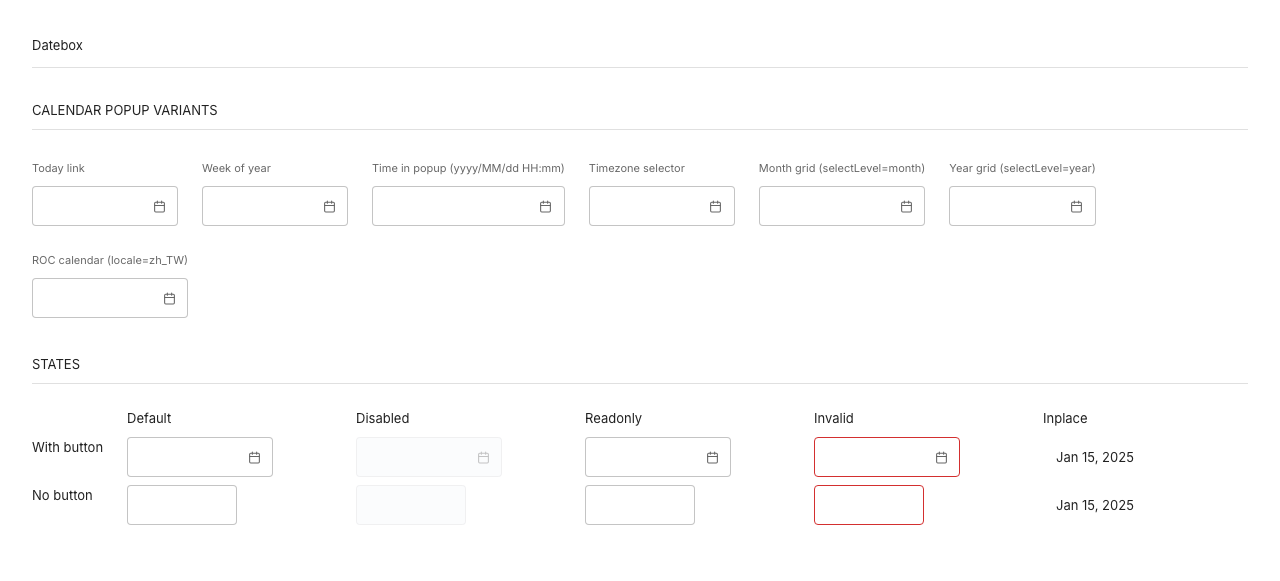
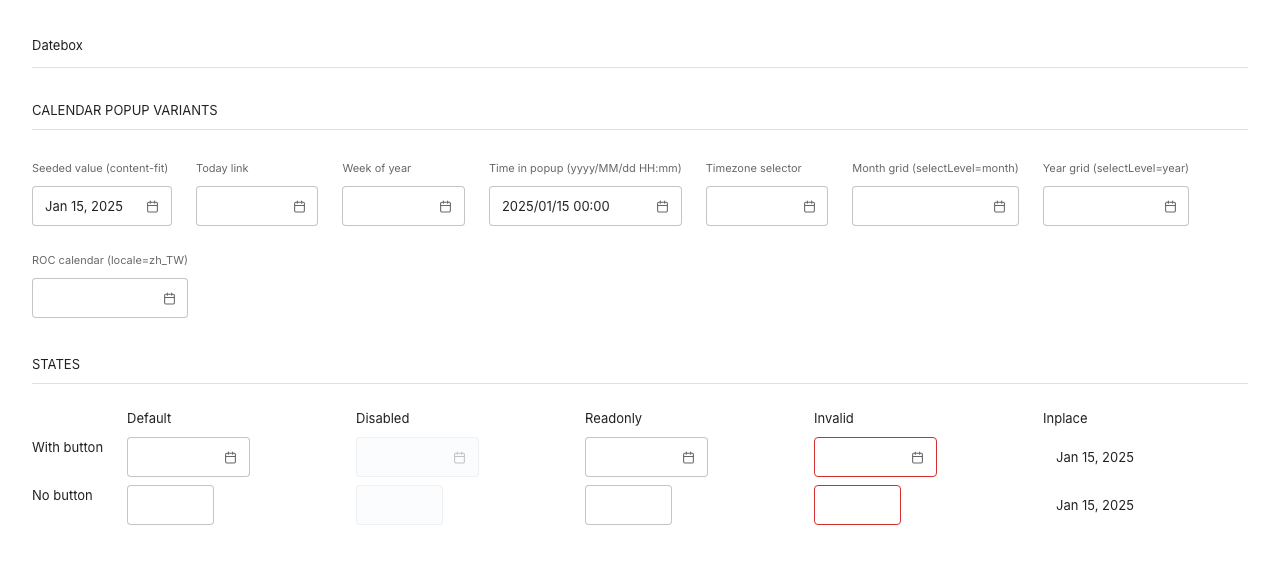
theme(datebox,timebox): content-fit inputs to hug date/time content
Re-examination of the daterangebox fix (c0c243f) found its premise wrong:
datebox is NOT a content-hugging "reference baseline". Its size-less <input>
with `flex:1;min-width:0` collapsed to a fixed ~108px that ignored content
(empty = short = long-format, all 108px) and CLIPPED long formats — measured
`yyyy/MM/dd HH:mm` "2025/01/15 00:00" needs 132px, was truncated at 108px.
timebox shares the identical collapse.

Fix: `.z-{datebox,timebox}-input` now hugs via `field-sizing: content` +
`min-width` floor (6.5em date / 5em time) + `flex: 1 1 auto`. Empirically
`flex:1 1 auto` beats daterangebox's `0 1 auto` here — it hugs in an auto
context yet STILL fills an hflex/width-forced root, so form layouts are
unaffected (verified: hflex=1 datebox fills 362px in a 400px parent). Short
date 108->102px, empty->85px floor, long format 108->132px (no clip). Degrades
to the prior look where `field-sizing` is unsupported. Scoped to the two
fixed-format date/time fields; free-text combobox/bandbox (per-keystroke
jitter) and numeric spinner left unchanged.

Test-first per doc/skill-feedback-loop.md (proven RED->GREEN via stash-revert):
- doc/skill-gaps.md: logged the gap + corrected the daterangebox premise
- doc/contracts/{datebox,timebox}.md: field-sizing (dw1/tw1), flex+min-width
  (dw2/tw2), outcome M1 (width tracks content / no clip)
- combo-trio.md skill: ZK-structural fact (inputs ship size-less -> theme must
  set a width policy)
[…]

diff --git a/src/test/playwright/screenshot.spec.ts b/src/test/playwright/screenshot.spec.ts
@@ -499,6 +499,40 @@ test.describe('datebox', () => {
       await padShot(page, page.locator('.z-datebox').first(), `${DIR}-${name}.png`);
     });
   }
+
+  // gap 2026-07-20 (Contract dw1/dw2/M1): the input ships size-less (ZK
+  // ComboWidget.redraw_ writes only class/aria/autocomplete; InputWidget._cols=0).
+  // The old `flex:1;min-width:0` collapsed it to a fixed ~108px that ignored
+  // content — a short date, an empty field, and a long-format date all rendered
+  // the SAME width, and the long format "2025/01/15 00:00" was CLIPPED
+  // (scrollWidth 132 > clientWidth 108). `field-sizing: content` (datebox.css) must
+  // make the input hug its date: short hugs, long grows to fit (no clip), so a
+  // longer value renders wider than a shorter one. Measures the seeded short-format
+  // and seeded long-format dateboxes in pv/datebox-content.zul.
+  // RED before the fix (fixed width, long clipped, long == short); GREEN after.
+  test('input hugs its date content (field-sizing, no clip, tracks length)', async ({ page }) => {
+    const info = await page.evaluate(() => {
+      const inputs = [...document.querySelectorAll('.z-datebox-input')] as HTMLInputElement[];
+      const seeded = inputs.filter(i => i.value && (i as HTMLElement).offsetParent !== null);
+      const measure = (i?: HTMLInputElement) => i && ({
+        w: Math.round(i.getBoundingClientRect().width),
+        clipped: i.scrollWidth > i.clientWidth + 1,
+        fieldSizing: getComputedStyle(i).getPropertyValue('field-sizing'),
+        value: i.value,
+      });
+      // long-format value contains "/" (yyyy/MM/dd HH:mm); the short default does not.
+      return {
+        short: measure(seeded.find(i => !i.value.includes('/'))),
+        long: measure(seeded.find(i => i.value.includes('/'))),
+      };
+    });
+    expect(info.short, 'seeded short-format datebox must be present').toBeTruthy();
+    expect(info.long, 'seeded long-format datebox must be present').toBeTruthy();
+    expect(info.long!.fieldSizing, 'field-sizing: content must be applied').toBe('content');
+    expect(info.long!.clipped, `long-format date "${info.long!.value}" must not be clipped`).toBe(false);
+    expect(info.long!.w, `input width must track content: long ${info.long!.w}px > short ${info.short!.w}px`)
+      .toBeGreaterThan(info.short!.w);
+  });
 });
 
 // -------------------------------------------------------
@@ -585,6 +619,28 @@ test.describe('timebox', () => {
       await padShot(page, page.locator('.z-timebox').first(), `${DIR}-${name}.png`);
     });
   }
+
+  // gap 2026-07-20 (Contract tw1/tw2/M1): same size-less input as datebox, with
+  // the same fixed-width collapse under the old `flex:1;min-width:0`. timebox's
+  // default time fits without clipping, so the clean RED->GREEN proof is the
+  // applied `field-sizing: content` (was the UA default `fixed`) that makes the
+  // input hug its time; the no-clip check guards a future long time format.
+  // Measures the seeded plain timebox in pv/timebox-content.zul.
+  test('input hugs its time content (field-sizing, no clip)', async ({ page }) => {
+    const info = await page.evaluate(() => {
+      const seeded = ([...document.querySelectorAll('.z-timebox-input')] as HTMLInputElement[])
+        .find(i => i.value && (i as HTMLElement).offsetParent !== null);
+      return seeded && ({
+        w: Math.round(seeded.getBoundingClientRect().width),
+        clipped: seeded.scrollWidth > seeded.clientWidth + 1,
+        fieldSizing: getComputedStyle(seeded).getPropertyValue('field-sizing'),
+        value: seeded.value,
+      });
+    });
+    expect(info, 'seeded timebox must be present').toBeTruthy();
+    expect(info!.fieldSizing, 'field-sizing: content must be applied').toBe('content');
+    expect(info!.clipped, `time "${info!.value}" must not be clipped`).toBe(false);
+  });
 });
 
 // -------------------------------------------------------

diff --git a/src/main/resources/web/js/zul/inp/css/datebox.css b/src/main/resources/web/js/zul/inp/css/datebox.css
@@ -39,9 +39,21 @@
     box-shadow: inset 0 0 0 1px var(--zk-color-primary);
 }
 
+/* Content-hug (contract dw1/dw2/M1): ZK emits the <input> with no size/width
+   (InputWidget._cols=0 → ComboWidget.redraw_ writes only class/aria/autocomplete;
+   see components/combo-trio.md). The old `flex:1;min-width:0` collapsed the input to
+   a fixed ~108px that ignored its content — short/empty/long all rendered the same
+   width and long formats like "2025/01/15 00:00" were CLIPPED. `field-sizing: content`
+   makes the input hug its date text (short dates hug; long formats grow to fit — no
+   clipping). `flex: 1 1 auto` (basis = content) still lets an hflex / width-forced
+   field grow to fill its container, so form layouts keep working. The `min-width`
+   floor keeps an empty field a usable click target. Left-aligned (no text-align), so
+   hugging simply trims trailing dead space. Browsers without `field-sizing` fall back
+   to the prior look — degradation, not breakage. */
 .z-datebox-input {
-    flex: 1;
-    min-width: 0;
+    flex: 1 1 auto;
+    field-sizing: content;
+    min-width: 6.5em;
     border: none;
     background: transparent;
     padding: 0 var(--zk-spacing-3);

diff --git a/src/main/resources/web/js/zul/inp/css/timebox.css b/src/main/resources/web/js/zul/inp/css/timebox.css
@@ -46,9 +46,15 @@
     box-shadow: inset 0 0 0 1px var(--zk-color-primary);
 }
 
+/* Content-hug (contract tw1/tw2/M1): same size-less input as datebox (see
+   components/combo-trio.md). `field-sizing: content` makes the input hug its time
+   text; `flex: 1 1 auto` (basis = content) still lets an hflex / width-forced field
+   fill its container. The `min-width` floor keeps an empty field a usable target.
+   Left-aligned; degrades to the prior look where `field-sizing` is unsupported. */
 .z-timebox-input {
-    flex: 1;
-    min-width: 0;
+    flex: 1 1 auto;
+    field-sizing: content;
+    min-width: 5em;
     border: none;
     background: transparent;
     padding: 0 var(--zk-spacing-3);

diff --git a/doc/skill-gaps.md b/doc/skill-gaps.md
@@ -301,3 +301,4 @@ Append-only record of ZK features that the harness missed and how we structurall
 | 2026-07-15 | coachmark | The pop-up card (`.z-coachmark-content`) was filled with `--zk-color-primary` (blue) + `--zk-color-on-primary` text. Any nested filled widget inherits the *global* filled style (itself primary-on-primary) and vanishes into the card, forcing the theme to hand-invert each control type (`.z-button`, `.z-combobutton` today) — a combinatorial burden that grows with every new slotted control. **Resolved by switching the card to a neutral MD3 rich-tooltip surface** (`--zk-color-surface-container-low`, `on-surface` text) so nested widgets render with their STANDARD styling and no inversion is needed. | The card's primary fill was an approved DESIGN choice, so no assertion questioned it; the "child controls on a colored card must be inverted" skill rule *documented* the workaround as the norm rather than flagging the root cause; MD3 has no "coachmark" so no reference mapped the composable-container pattern to its rich-tooltip guidance (neutral surface + standard text buttons). | contract + skill + impl + test | CSS `js/zkmax/nav/css/coachmark.css` (card bg/text + pointer border-color → neutral surface/on-surface; **removed** the `.z-coachmark-content .z-button` and `.z-coachmark-content .z-combobutton …` inversion blocks; close icon → `on-surface-variant`); Contract `doc/contracts/coachmark.md` (c1/c2/c5/c10 retargeted, inverse rows c17–c20 + outcome M8 removed, M1/M6 recomputed; mockup `coachmark.html` regenerated + re-approval gate); Skill `.claude/skills/zk-component-rules/components/coachmark.md` (the inversion invariant becomes *conditional* — default surface is neutral, inversion only IF a future variant re-colors the card); Test `screenshot.spec.ts › coachmark › card is a neutral surface and nested button keeps the standard fill`. | |
 | 2026-07-15 | coachmark (close button) | Designer review of the top-right close `×`: it renders as a bare 16×16 glyph (no hit target, no hover state layer, no focus ring) sitting at an **asymmetric** corner inset — 4px inside the content top but 8px inside the right — so it reads as unfinished and "positioned oddly". Root cause of the asymmetry: the close is `position:absolute` against the `.z-coachmark` **root**, and ZK injects **20px** padding on the pointer side of the root (`Coachmark.ts` `_fixPadding`: `ph = 10 + borderHeight/2 = 10 + 10`, pointer border hardcoded 10px). The theme's pointer-side compensation bump was **`+16px` — 4px short of 20px**, so on a pointer-up/right card the close lands 4px (not 8px) inside the content edge. Separately the close was never given the theme's icon-button affordance. | MD3 rich-tooltip guidance prescribes *action buttons*, not a corner `×`, so no reference ever specified the close affordance or its inset; the contract asserted the close's existence/corner-pinning (M3) and colour (c10) but never its **size**, **shape (circular)**, **hover state layer**, **focus ring**, or **symmetric inset**; and the `+16px` bump was copied from ZK's default without checking it against the 20px the JS actually injects. A rest-vs-settled geometry probe can't flag "feels cramped" — only a designer's eye + an explicit symmetric-inset assertion catches it. | skill + contract + impl + test | CSS `js/zkmax/nav/css/coachmark.css` (`.z-coachmark-close` → `--zk-control-height-xs` circular target, flex-centered, `surface-container` hover state layer, `--zk-focus-ring` on `:focus-visible`; pointer bumps `+16px`→`calc(spacing-2 + spacing-5)` = 20px; content `padding-right` reserves 44px for the 28px circle); Skill `.claude/skills/zk-component-rules/components/coachmark.md` (record: root gets 20px JS-injected padding on the pointer side → close pointer-side offset compensation MUST be 20px, and the close should reuse the theme icon-button affordance); Contract `doc/contracts/coachmark.{md,html}` (new close expected values + outcome assertion for circular affordance + symmetric 8px content-corner inset); Test `screenshot.spec.ts › coachmark › close button is a circular icon-button target with symmetric corner inset`. | Fixed & verified red→green. Two guards added: `close button is a circular icon-button target with symmetric corner inset` (failed on the old build — width 16<24, and 4px/8px asymmetric inset — passes now: 28px circle, radius 9999px, 8px/8px inset) and `close button shows a hover state layer` (old build had no `::before` → rest opacity 1≠0; now 0→0.08 on hover). Live re-measure: close 28×28, `border-radius:9999px`, `top/right` insets 8px/8px, card `padding` `16px 44px 16px 16px`; hover paints the on-surface `::before` state layer, `:focus-visible` shows the primary ring. Sibling sweep: combobutton + tour-step coachmarks on the page all render pointer-up with the same symmetric 8px/8px inset; pointer-down/left inject padding away from the top-right corner (no bump needed) and pointer-right reuses the same +20px, so all four directions land symmetric by construction (`_fixPadding` injects a uniform `pw=ph=20px`). Full chromium suite 118/118 green; coachmark group stable 9/9 over `--repeat-each=3`. Mockup `coachmark.html` regenerated to match; `contract-approved` flipped to false pending re-approval of the close-affordance change. |
 | 2026-07-20 | daterangebox | The input shows large symmetric left/right whitespace around the date and the whole field is ~2× datebox width (measured: root 398.6px, each input 172px, value "Jan 10, 2025" ≈ 78px centered → ~35px gutter/side). Root cause is **NOT padding** (both daterangebox & datebox use `padding: 0 12px` = `--zk-spacing-3`): `.z-daterangebox-input` has `text-align: center` + `flex: 1` and the two `<input>`s carry no `size`/`width` (ZK `Daterangebox.ts` `redraw()` writes only class/aria/placeholder/autocomplete), so each falls back to the UA-default ~20ch (~172px) intrinsic width and the short date sits centered with wide gutters. datebox is single + left-aligned, so its gutter is one-sided and far less visible. | The contract asserted the input's centered text (Design prose) and font-size (c5) but **never constrained input width or the gutter**; MD3/MUI has no two-input date-range analog (MUI `SingleInputDateRangeField` is one left-aligned `OutlinedInput` at 14px padding), so no width target was ever measured; and daterangebox had **no Playwright `describe` block at all** — only a render-smoke 200-check — so nothing could observe the width. | skill + contract + impl + test | CSS `js/zkmax/db/css/daterangebox.css` (`.z-daterangebox-input`: `flex:1`→`flex:0 1 auto`, add `field-sizing:content`, `min-width:0`→date-fit floor so inputs hug their content instead of the UA ~20ch default); Skill `.claude/skills/zk-component-rules/components/daterangebox.md` (record: the two inputs ship with no `size`/`width`, so a theme MUST bound their width or each renders ~20ch and, centered, shows large symmetric gutters); Contract `doc/contracts/daterangebox.md` (new outcome M-row: a seeded `.z-daterangebox-input` bbox width is content-fitted, <130px; new Expected-value row for `field-sizing`); Test `screenshot.spec.ts › daterangebox › input hugs its date content (not the UA ~20ch default)`. | Fixed & verified red→green on /daterangebox.zul. The guard failed on the old build (seeded begin input **172px** > 130px) and passes now (**102.4px**; `field-sizing: content`, `min-width` floor `84.5px` = 6.5em). Root width **398.6px→258.9px** (−35%); empty field 398px→223.6px. Live screenshot confirms seeded ranges read compactly with no clipping and the `showTime` variant auto-widens for the time text. Full date family green (7/7: datebox timezone/open-state/gallery/hover/focus + daterangebox). **Sibling sweep — no code change:** datebox/combobox/bandbox/timebox/spinner are single-input, and combobox/bandbox are free-text where content-hug would jitter per keystroke; datebox is the user's stated reference baseline, so the fix is intentionally scoped to daterangebox only. `field-sizing` degrades to the prior ~20ch look where unsupported (no regression). |
+| 2026-07-20 | datebox, timebox | DateBox does **NOT** hug its content either. `.z-datebox-input` uses `flex: 1; min-width: 0` (grow-to-fill) with **no** `field-sizing`/width/`min-width` floor, and ZK emits the input size-less (`InputWidget._cols=0` → `ComboWidget.redraw_` writes only class/aria/autocomplete). In practice `flex:1;min-width:0` collapsed the input to a **fixed ~108px** that ignored content — empty, short date and long-format date all rendered the same width — and **clipped** long formats (`yyyy/MM/dd HH:mm` "2025/01/15 00:00" → scrollWidth 132 > clientWidth 108, measured). TimeBox shares the identical collapse. **This corrects the 2026-07-20 daterangebox row's premise** that "datebox is the content-hugging reference baseline" — datebox never hugged (it uses a fixed collapse, not content-fit). The over-wide *symmetric gutters* were daterangebox-specific (two centered inputs at ~172px); datebox's own defect is the content-insensitive fixed width plus the long-format clipping (NOT a 172px over-width — a bare datebox shrink-wraps to ~146px root / ~108px input). | No datebox/timebox contract or DESIGN.md rule ever constrained or measured input width — both contracts just delegate to combobox c1–c8 metrics, none of which cover width. MUI's single date/text field has no content-hug analog (it fills its container / UA width, left-aligned), so no width target was ever derivable from the reference. And the defect was masked by left-alignment: one-sided trailing whitespace reads as "a normal-width field", so no screenshot review flagged it — the daterangebox fix even codified the wrong premise into its sibling-sweep note. | skill + spec (DESIGN.md) + contract + impl + test | CSS `js/zul/inp/css/datebox.css` + `js/zul/inp/css/timebox.css` (`.z-{datebox,timebox}-input`: `flex:1;min-width:0` → `flex:1 1 auto; field-sizing:content; min-width` date/time-fit floor — basis=content hugs in an auto context yet still fills an `hflex`/width-forced root, unlike daterangebox's `flex:0 1 auto`); Skill `.claude/skills/zk-component-rules/components/combo-trio.md` (family-level: all combo-trio inputs ship size-less → a theme MUST set an input-width policy); Spec `doc/spec/DESIGN.md §10` (theme policy — content-hug fixed-format date/time fields; keep free-text combobox/bandbox + numeric spinner at UA-default/fill to avoid per-keystroke jitter); Contract `doc/contracts/{datebox,timebox}.md` (new outcome M-row: seeded `.z-{comp}-input` bbox width content-fitted <130px/<120px; new Expected-value rows for `field-sizing` + `flex`/`min-width`); Preview `pv/{datebox,timebox}-content.zul` (add a seeded plain instance to measure); Test `screenshot.spec.ts › datebox › input hugs its date content` + `› timebox › input hugs its time content`. **Sibling sweep — no code change:** free-text combobox/bandbox (content-hug jitters per keystroke) + numeric spinner (variable length) intentionally excluded; daterangebox already done. | Fixed & verified red→green on /datebox.zul + /timebox.zul. Guards failed pre-fix (computed `field-sizing: fixed`; datebox long-format clipped, long == short width) and pass after (`field-sizing: content`; long not clipped, long > short). **Empirical re-measure corrected the premise:** a bare datebox was never 172px — the old `flex:1;min-width:0` collapsed it to a fixed ~146px root / ~108px input regardless of content and clipped `yyyy/MM/dd HH:mm` (scrollW 132 > clientW 108). After the fix: short 108→102px, empty 108→85px (6.5em floor), long 108→132px (no clip); an `hflex=1` datebox still fills its container (362px in a 400px parent), so form layouts are unaffected. Recipe uses `flex:1 1 auto` (not daterangebox's `0 1 auto`) precisely to preserve hflex fill. Full date family green (datebox/daterangebox/timebox). |

diff --git a/doc/contracts/datebox.md b/doc/contracts/datebox.md
@@ -13,6 +13,25 @@ zk-version: 10.2.1-jakarta
 ## Expected values
 Same input metrics as combobox c1–c8 (just selectors → `.z-datebox-*`). Calendar popup styled separately; cross-reference `calendar` contract.
 
+### Content-fit input width — hug the date, not a fixed collapse (gap 2026-07-20)
+The date `<input>` ships **size-less** (ZK `InputWidget._cols=0` → `ComboWidget.redraw_` writes only
+class/aria/autocomplete; see `components/combo-trio.md`). The former `flex: 1; min-width: 0`
+collapsed it to a **fixed ~108px** that ignored its content — an empty field, a short date and a
+long-format date all rendered the same width, and the long `yyyy/MM/dd HH:mm` value
+("2025/01/15 00:00") was **clipped** (scrollWidth 132 > clientWidth 108). Per `DESIGN.md §10`
+(input-width policy) the input MUST hug its content. No `text-align` is added — the field stays
+left-aligned.
+
+| id | selector | property | expected |
+|----|----------|----------|----------|
+| dw1 | `.z-datebox-input` | field-sizing | `content` — the input hugs its date text (short dates hug; long formats grow to fit, no clipping). Degrades to the prior look where unsupported (no regression) |
+| dw2 | `.z-datebox-input` | flex + min-width | `flex: 1 1 auto` (basis = content, so it hugs in an auto context yet still **grows to fill** an `hflex`/width-forced root — forms keep working) AND a `min-width` date floor (`~6.5em`) keeping an empty field a usable target. Differs deliberately from daterangebox's `flex: 0 1 auto`, whose two side-by-side inputs must NOT grow |
+
+**Outcome (M1):** with seeded values, `.z-datebox-input` **width tracks its content** — a longer value
+(long `yyyy/MM/dd HH:mm` format) renders **wider** than a shorter one (default format), and the
+long-format value is **not clipped** (`scrollWidth <= clientWidth`). Guarded by
+`screenshot.spec.ts › datebox › input hugs its date content (field-sizing, no clip, tracks length)`.
+
 ### Timezone `<select>` focus — Mechanism A (gap 2026-07-14)
 The in-popup timezone `<select>` (`.z-datebox-timezone > select`) is a native, intrinsically-sized
 control → it MUST use Mechanism A, not a 2px focus border (which would grow the box on both axes and

diff --git a/doc/spec/DESIGN.md b/doc/spec/DESIGN.md
@@ -201,6 +201,20 @@ The theme honors `@media (forced-colors: active)` (Windows High-Contrast Mode; a
 
 Rule: **table rows are ~52px** (16px padding all sides + 13px text + line-height). Inputs ~39px inner height. Buttons ~35px.
 
+### Input width: fixed-format date/time fields hug their content
+
+ZK ships every combo-trio input size-less (no `size`/`width`; see `zk-component-rules/components/combo-trio.md`), so the theme must choose a width policy. Marble's choice:
+
+| Field | Width behaviour |
+|-------|-----------------|
+| **datebox, timebox, daterangebox** (fixed-format date/time) | **hug content** — `field-sizing: content` + a `min-width` floor (`~6.5em` date, `~5em` time), so the field sizes to its value: short values hug, long formats (e.g. `yyyy/MM/dd HH:mm`) grow to fit instead of clipping. |
+| **combobox, bandbox** (free-text) | keep the default / container-fill width. Content-hug would resize the box on every keystroke while typing — jarring. |
+| **spinner, doublespinner** (numeric) | keep the default / container-fill width (numeric length is unbounded and typed). |
+
+datebox/timebox use `flex: 1 1 auto` (basis = content, so they hug in an auto context yet still **fill** an `hflex`/width-forced root — forms are unaffected); daterangebox uses `flex: 0 1 auto` because its two side-by-side inputs must not grow.
+
+This is a deliberate divergence from MUI, whose single `OutlinedInput` fills its container (or the UA default) with left-aligned text and no content-hug. MUI has no opinion on a *standalone* date field's width; Marble sizes it to its content so a bare date/time field reads as one compact field rather than a fixed box with dead space, and long formats are never clipped. See contracts `datebox.md` / `timebox.md` / `daterangebox.md` and `doc/skill-gaps.md` (2026-07-20).
+
 ### Table-header background: no fill
 
 Grid, Listbox, and Tree headers share **one rule**: **no background color**. Header cells inherit the body surface; visual hierarchy comes from three signals:

diff --git a/.claude/skills/zk-component-rules/components/combo-trio.md b/.claude/skills/zk-component-rules/components/combo-trio.md
@@ -20,6 +20,12 @@ These are **Type A** for inplace. The border lives on the root `<span>`. See `re
 
 Standard pattern: `.z-{c}-disabled` class is added to the button element (`.z-{c}-button.z-{c}-disabled`). See `reference/buttonVisible-attribute.md`.
 
+## Input width: the inner `<input>` ships size-less
+
+ZK emits every combo-trio `<input>` (datebox / timebox / spinner / combobox / bandbox) with **no `size`, `cols`, or `width`** attribute: `InputWidget._cols` defaults to `0` (`getCols()` doc: "non-positive means the same as browser's default"), and `ComboWidget.redraw_` writes only `class` / `aria-*` / `autocomplete` / `value`. So the input's *intrinsic* width is the browser UA default (`size=20` ≈ 20ch) and the *rendered* width is entirely CSS-determined.
+
+Consequence for a theme: a `flex: 1; min-width: 0` on the input (a common pattern) collapses it to a **fixed** width inside the shrink-wrapped root that ignores content — a short value, an empty field, and a long-format value all render the same width, and a value longer than that fixed width is **clipped** (measured: datebox `yyyy/MM/dd HH:mm` needs 132px in a 108px input → truncated). Any theme must therefore pick an explicit input-width policy: either let the input **hug its content** (`field-sizing: content` + a `min-width` floor; `flex: 1 1 auto` so it still fills when `hflex`/width-forced) or accept/bound a fixed width. This is structural (true for every theme); *which* components hug is a theme decision — see this theme's `DESIGN.md §10`.
+
 ## Focus
 
 Use `:focus-within` on the root. The actual focus target is the inner input. See `reference/focus-vs-focus-within.md`.

diff --git a/doc/contracts/timebox.md b/doc/contracts/timebox.md
@@ -13,6 +13,22 @@ zk-version: 10.2.1-jakarta
 ## Expected values
 Same input metrics as combobox c1–c7 (selectors → `.z-timebox-*`).
 
+### Content-fit input width — hug the time, not a fixed collapse (gap 2026-07-20)
+The time `<input>` ships **size-less** (same mechanism as datebox; see `components/combo-trio.md`).
+The former `flex: 1; min-width: 0` collapsed it to a fixed width that ignored content. The default
+time fits without clipping, so the applied `field-sizing` is the primary proof here. Per
+`DESIGN.md §10` (input-width policy) the input MUST hug its content, mirroring datebox. No
+`text-align` is added — the field stays left-aligned.
+
+| id | selector | property | expected |
+|----|----------|----------|----------|
+| tw1 | `.z-timebox-input` | field-sizing | `content` — hug the time text; degrades to the prior look where unsupported (no regression) |
+| tw2 | `.z-timebox-input` | flex + min-width | `flex: 1 1 auto` (basis = content, so it hugs in an auto context yet still grows to fill an `hflex`/width-forced root) AND a `min-width` time floor (`~5em`) keeping an empty field a usable target |
+
+**Outcome (M1):** with a seeded value, `.z-timebox-input` has `field-sizing: content` applied and its
+content is **not clipped** (`scrollWidth <= clientWidth`). Guarded by
+`screenshot.spec.ts › timebox › input hugs its time content (field-sizing, no clip)`.
+
 ## States to evaluate
 - [ ] default, hover, focus, disabled, readonly, invalid
 - [ ] inplace (see `reference/inplace-state.md`)
